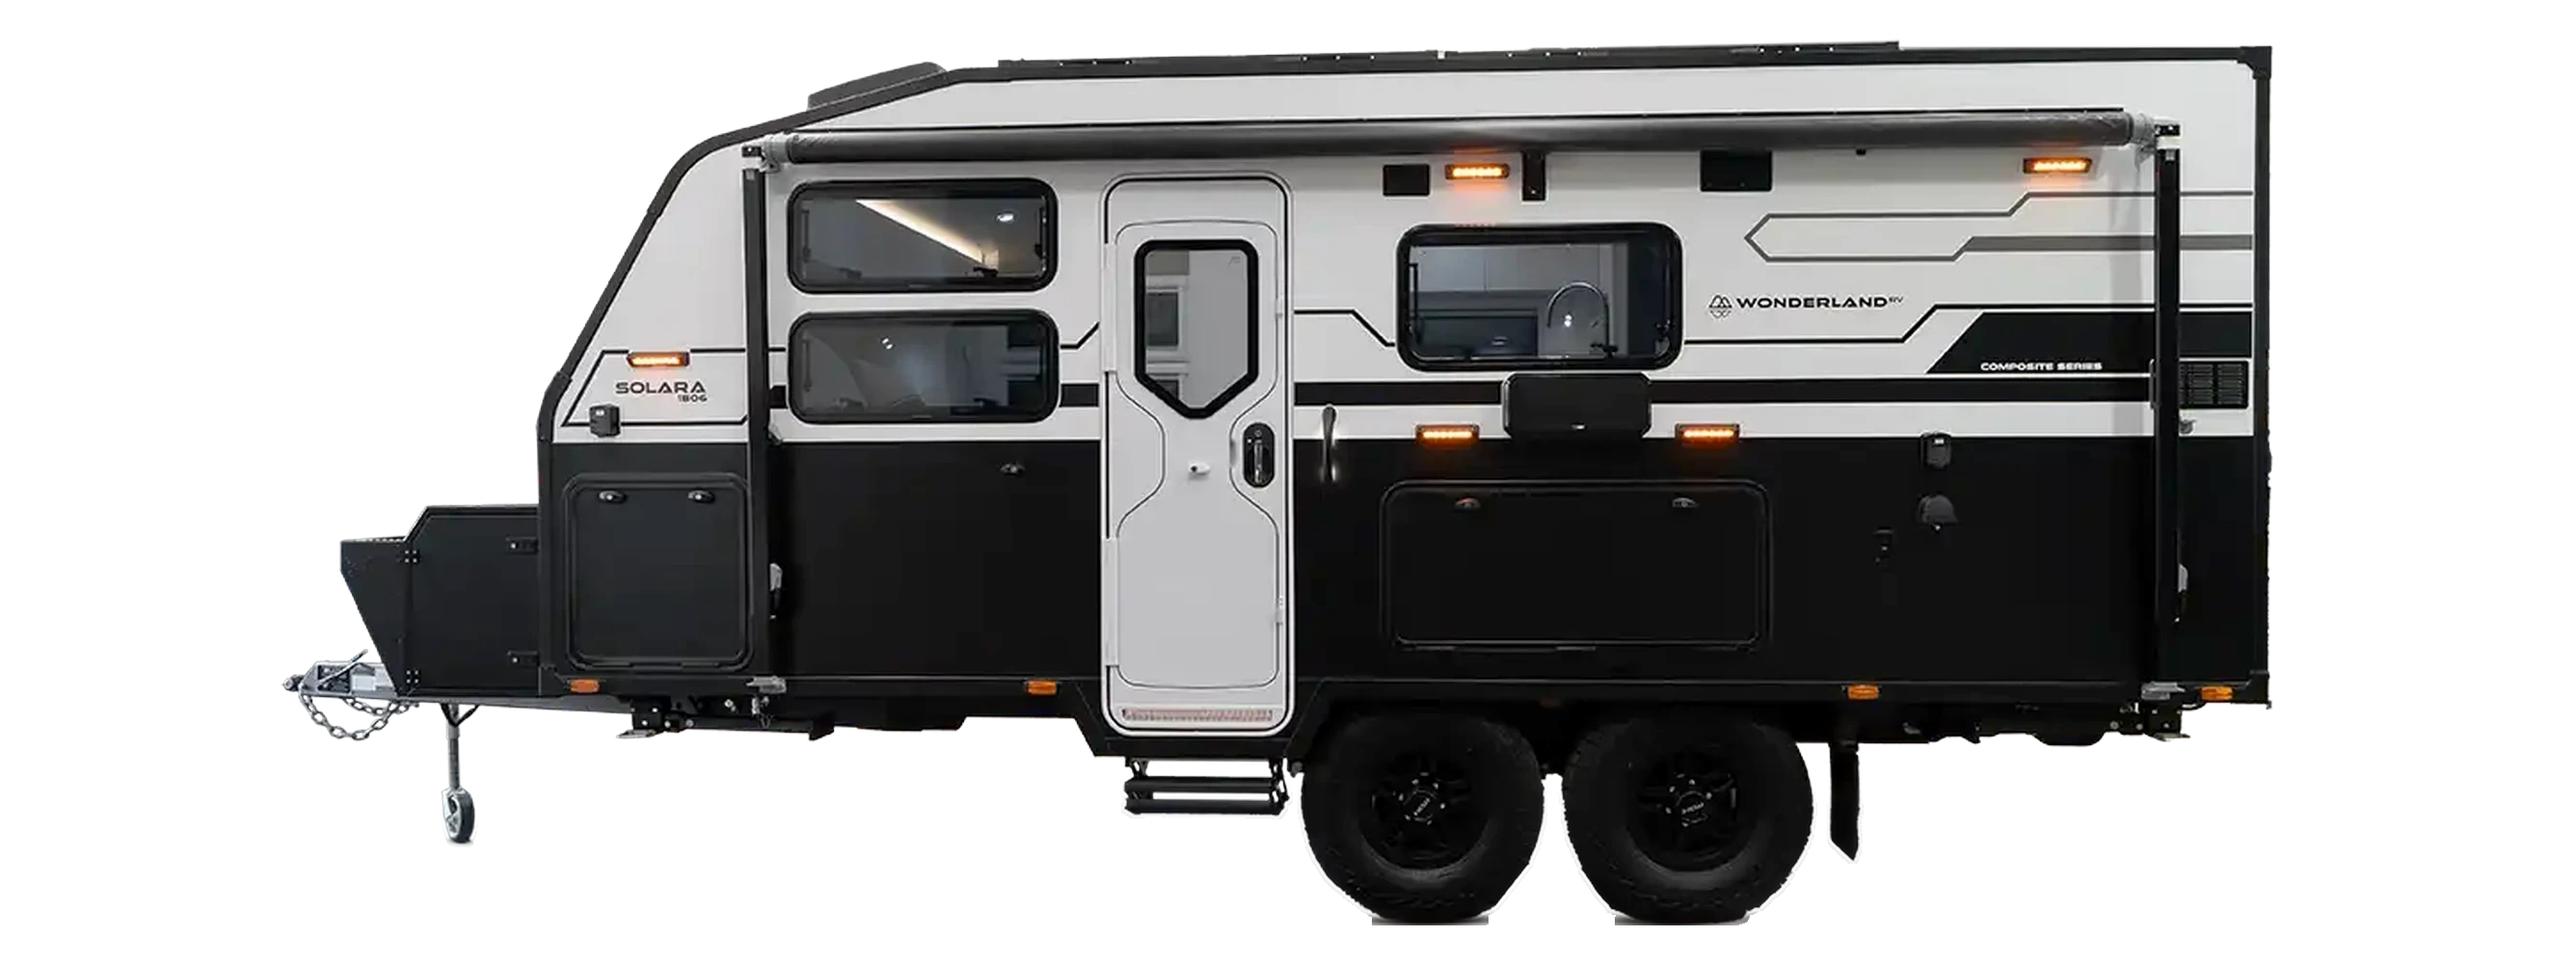
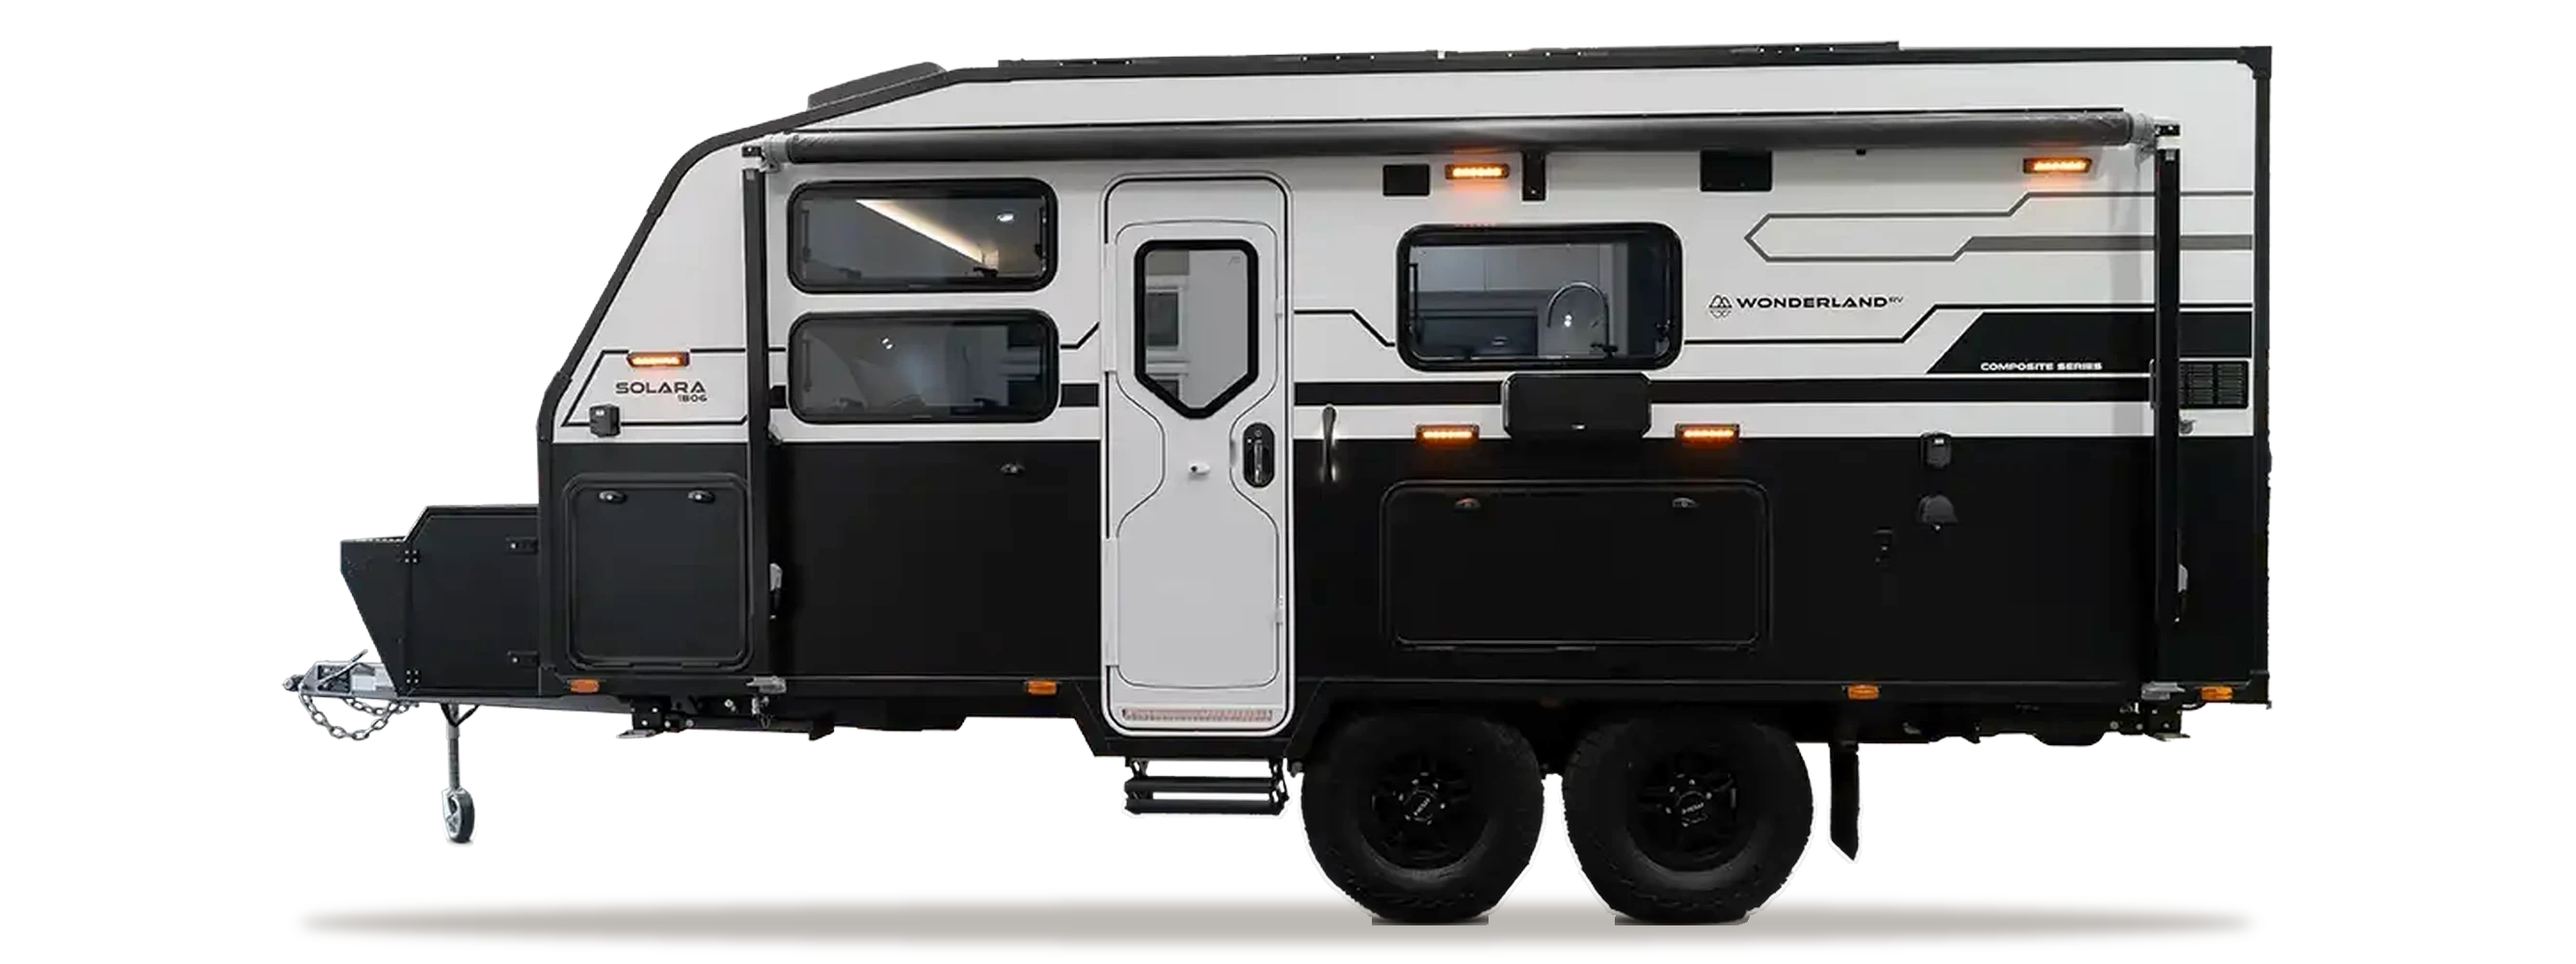
Add one identical contact shadow under all four vans
Generated in the image pipeline rather than in Illustrator, and the
reason is consistency rather than convenience: every parameter is a
constant shared by all four, so the four shadows cannot drift. One span
ratio (0.98 of each van's own ink width), one height (40px on the 1000px
canvas), one blur (sigma 7), one peak alpha (0.34), one vertical offset
(2px above the tyre line). The only per-van input is the van's own
footprint, which is as it should be -- a longer van casts a longer
shadow.

Illustrator is installed, but driving it needs GUI automation behind a
permission dialog, and a shadow drawn by hand in four documents is
exactly the thing that produced the inconsistency being fixed here. The
originals each carried a different baked haze; replacing that with four
hand-placed effects would repeat the fault.

WARM, not black: rgba of (60, 48, 36), the same warm dark the footer and
the section shadows use, so it sits in the page's neutral family rather
than reading cold against it.

Fits the canvas. The ellipse centre is at y 957 and the blur reaches y
990 against a 1000px canvas, so nothing clips and the 40px bottom margin
the layout depends on is untouched. Canvas geometry is unchanged at
2672x1000, so --plate, --nb and the stage height all still hold.

Image cache-buster to v=3 in range-viewer.js.

Changed region(s): [[0.1243, 0.93, 0.8698, 0.992]]

diff --git a/home.html b/home.html
@@ -6,12 +6,12 @@
 <title>Wonderland RV — Luxury Off-Road Caravans</title>
 <meta name="description" content="Wonderland RV's bespoke off-road caravans combine the comforts of a boutique hotel with the freedom to explore Australia's rugged beauty.">
 <link rel="icon" href="assets/img/wonderland-rv-logo.png">
-<link rel="stylesheet" href="assets/css/styles.css?v=280">
-<link rel="stylesheet" href="assets/css/type-compact.css?v=280">
-<link rel="stylesheet" href="assets/css/ambassadors.css?v=280">
-<link rel="stylesheet" href="assets/css/homepage.css?v=280">
-<link rel="stylesheet" href="assets/css/range-viewer.css?v=280">
-<link rel="stylesheet" href="assets/css/home-order.css?v=280">
+<link rel="stylesheet" href="assets/css/styles.css?v=281">
+<link rel="stylesheet" href="assets/css/type-compact.css?v=281">
+<link rel="stylesheet" href="assets/css/ambassadors.css?v=281">
+<link rel="stylesheet" href="assets/css/homepage.css?v=281">
+<link rel="stylesheet" href="assets/css/range-viewer.css?v=281">
+<link rel="stylesheet" href="assets/css/home-order.css?v=281">
 </head>
 <body class="home">
 
@@ -479,7 +479,7 @@
   <div class="amb-more-strip" tabindex="0" aria-label="The Wonderlanders">
     <div class="wl-card">
       <div class="wl-card-media ph" data-ph="AMBASSADOR PHOTO — The Feel Good Family">
-        <img src="assets/img/ambassadors/feel-good-family.jpg?v=280" alt="Katie, Paul and Jasper of The Feel Good Family with their Wonderland RV Solara" onload="this.parentElement.classList.remove('ph')" onerror="this.remove()">
+        <img src="assets/img/ambassadors/feel-good-family.jpg?v=281" alt="Katie, Paul and Jasper of The Feel Good Family with their Wonderland RV Solara" onload="this.parentElement.classList.remove('ph')" onerror="this.remove()">
       </div>
       <div class="wl-card-name">
         <div class="wl-card-head">
@@ -538,7 +538,7 @@
     </div>
     <div class="wl-card">
       <div class="wl-card-media ph" data-ph="AMBASSADOR PHOTO — The Kiwi Van Life">
-        <img src="assets/img/ambassadors/kiwi-van-life.jpg?v=280" alt="Rorden, Cass, Jed and Lexi of The Kiwi Van Life" onload="this.parentElement.classList.remove('ph')" onerror="this.remove()">
+        <img src="assets/img/ambassadors/kiwi-van-life.jpg?v=281" alt="Rorden, Cass, Jed and Lexi of The Kiwi Van Life" onload="this.parentElement.classList.remove('ph')" onerror="this.remove()">
       </div>
       <div class="wl-card-name">
         <div class="wl-card-head">
@@ -996,14 +996,14 @@
   </div>
 </footer>
 
-<script src="assets/js/video-embed.js?v=280"></script>
-<script src="assets/js/home.js?v=280"></script>
-<script src="assets/js/reviews.js?v=280"></script>
-<script src="assets/js/footer.js?v=280"></script>
-<script src="assets/js/budget.js?v=280"></script>
-<script src="assets/js/faq.js?v=280"></script>
-<script src="assets/js/range-viewer.js?v=280"></script>
-<script src="assets/js/wl-strip.js?v=280"></script>
-<script src="assets/js/nav.js?v=280"></script>
+<script src="assets/js/video-embed.js?v=281"></script>
+<script src="assets/js/home.js?v=281"></script>
+<script src="assets/js/reviews.js?v=281"></script>
+<script src="assets/js/footer.js?v=281"></script>
+<script src="assets/js/budget.js?v=281"></script>
+<script src="assets/js/faq.js?v=281"></script>
+<script src="assets/js/range-viewer.js?v=281"></script>
+<script src="assets/js/wl-strip.js?v=281"></script>
+<script src="assets/js/nav.js?v=281"></script>
 </body>
 </html>

diff --git a/feel-good-family.html b/feel-good-family.html
@@ -6,7 +6,7 @@
 <title>The Feel Good Family&rsquo;s composite caravan | Wonderland RV</title>
 <meta name="description" content="The Feel Good Family, Katie, Paul and Jasper, have travelled Australia full time since 2019 and now tow a Wonderland RV Solara, a composite caravan with bunks.">
 <link rel="icon" href="assets/img/wonderland-rv-logo.png">
-<link rel="stylesheet" href="assets/css/styles.css?v=280">
+<link rel="stylesheet" href="assets/css/styles.css?v=281">
 <link rel="stylesheet" href="assets/css/type-compact.css?v=207">
 <link rel="stylesheet" href="assets/css/ambassadors.css?v=207">
 <link rel="stylesheet" href="assets/css/ambassador-page.css?v=268">

diff --git a/kiwi-van-life.html b/kiwi-van-life.html
@@ -6,7 +6,7 @@
 <title>The Kiwi Van Life: family off-road caravan | Wonderland RV</title>
 <meta name="description" content="The Kiwi Van Life, Rorden, Cass, Jed and Lexi, sold their house in seven days and now live in a Wonderland RV Hornet, a family off-road caravan with an ensuite.">
 <link rel="icon" href="assets/img/wonderland-rv-logo.png">
-<link rel="stylesheet" href="assets/css/styles.css?v=280">
+<link rel="stylesheet" href="assets/css/styles.css?v=281">
 <link rel="stylesheet" href="assets/css/type-compact.css?v=207">
 <link rel="stylesheet" href="assets/css/ambassadors.css?v=207">
 <link rel="stylesheet" href="assets/css/ambassador-page.css?v=268">

diff --git a/wheatland-wanderers.html b/wheatland-wanderers.html
@@ -6,7 +6,7 @@
 <title>Wheatland Wanderers: XTR off-grid caravan | Wonderland RV</title>
 <meta name="description" content="The Wheatland Wanderers, Cameron, Sharyn, Jye and Cruz, went from tents and swags to a custom-designed Wonderland RV XTR. Learn what makes an off-grid caravan.">
 <link rel="icon" href="assets/img/wonderland-rv-logo.png">
-<link rel="stylesheet" href="assets/css/styles.css?v=280">
+<link rel="stylesheet" href="assets/css/styles.css?v=281">
 <link rel="stylesheet" href="assets/css/type-compact.css?v=207">
 <link rel="stylesheet" href="assets/css/ambassadors.css?v=207">
 <link rel="stylesheet" href="assets/css/ambassador-page.css?v=268">

diff --git a/livin-in-sanity.html b/livin-in-sanity.html
@@ -6,7 +6,7 @@
 <title>Livin In Sanity: travel Australia with kids | Wonderland RV</title>
 <meta name="description" content="Livin In Sanity have been travelling Australia with kids full time since February 2023. Meet Rick, Kerstin and the family, and see their Wonderland RV XTR.">
 <link rel="icon" href="assets/img/wonderland-rv-logo.png">
-<link rel="stylesheet" href="assets/css/styles.css?v=280">
+<link rel="stylesheet" href="assets/css/styles.css?v=281">
 <link rel="stylesheet" href="assets/css/type-compact.css?v=207">
 <link rel="stylesheet" href="assets/css/ambassadors.css?v=207">
 <link rel="stylesheet" href="assets/css/ambassador-page.css?v=268">

diff --git a/ambassadors.html b/ambassadors.html
@@ -6,7 +6,7 @@
 <title>Wonderlanders: living in a caravan full time | Wonderland RV</title>
 <meta name="description" content="Meet the Wonderlanders, families living in a caravan full time or taking a big lap of Australia, in off-road caravans that Wonderland RV builds to order.">
 <link rel="icon" href="assets/img/wonderland-rv-logo.png">
-<link rel="stylesheet" href="assets/css/styles.css?v=280">
+<link rel="stylesheet" href="assets/css/styles.css?v=281">
 <link rel="stylesheet" href="assets/css/type-compact.css?v=207">
 <link rel="stylesheet" href="assets/css/ambassador-page.css?v=268">
 <link rel="stylesheet" href="assets/css/ambassadors.css?v=207">

diff --git a/sandy-van-travels.html b/sandy-van-travels.html
@@ -6,7 +6,7 @@
 <title>Sandy Van Travels: caravan storage ideas | Wonderland RV</title>
 <meta name="description" content="Caravan storage ideas from Sandy Van Travels, a family of five travelling Australia full time in a Wonderland RV with three bunks and a large ensuite.">
 <link rel="icon" href="assets/img/wonderland-rv-logo.png">
-<link rel="stylesheet" href="assets/css/styles.css?v=280">
+<link rel="stylesheet" href="assets/css/styles.css?v=281">
 <link rel="stylesheet" href="assets/css/type-compact.css?v=207">
 <link rel="stylesheet" href="assets/css/ambassadors.css?v=207">
 <link rel="stylesheet" href="assets/css/ambassador-page.css?v=268">

diff --git a/8-feet-travels.html b/8-feet-travels.html
@@ -6,7 +6,7 @@
 <title>8 Feet Travels: meet Adam and Jessy | Wonderland RV</title>
 <meta name="description" content="Meet Adam and Jessy of 8 Feet Travels, part of the Wonderlanders community at Wonderland RV, the family-owned maker of off-road caravans built to order.">
 <link rel="icon" href="assets/img/wonderland-rv-logo.png">
-<link rel="stylesheet" href="assets/css/styles.css?v=280">
+<link rel="stylesheet" href="assets/css/styles.css?v=281">
 <link rel="stylesheet" href="assets/css/type-compact.css?v=207">
 <link rel="stylesheet" href="assets/css/ambassadors.css?v=207">
 <link rel="stylesheet" href="assets/css/ambassador-page.css?v=268">

diff --git a/assets/js/range-viewer.js b/assets/js/range-viewer.js
@@ -86,7 +86,7 @@
          twice now, first to drop the baked-in shadows and then to crop the
          empty canvas those shadows had been reserving, and nothing else
          would tell a browser holding the old ones to fetch them again */
-      var src = "assets/img/home/range/" + m.id + "-side.webp?v=2";
+      var src = "assets/img/home/range/" + m.id + "-side.webp?v=3";
       return '<div class="rvx-van" data-k="' + k + '">' +
         '<img src="' + src + '" alt="' + m.name + '" onerror="this.remove();">' +
       '</div>';

diff --git a/compact.html b/compact.html
@@ -6,7 +6,7 @@
 <title>Contact Us — Wonderland RV (compact type)</title>
 <meta name="description" content="Contact Wonderland RV. Our experts will guide you through your caravan customisation — book a factory tour, request a quote or arrange a virtual consult.">
 <link rel="icon" href="assets/img/wonderland-rv-logo.png">
-<link rel="stylesheet" href="assets/css/styles.css?v=280">
+<link rel="stylesheet" href="assets/css/styles.css?v=281">
 <link rel="stylesheet" href="assets/css/type-compact.css?v=229">
 </head>
 <body>

diff --git a/index.html b/index.html
@@ -6,7 +6,7 @@
 <title>Contact Us — Wonderland RV</title>
 <meta name="description" content="Contact Wonderland RV. Our experts will guide you through your caravan customisation — book a factory tour, request a quote or arrange a virtual consult.">
 <link rel="icon" href="assets/img/wonderland-rv-logo.png">
-<link rel="stylesheet" href="assets/css/styles.css?v=280">
+<link rel="stylesheet" href="assets/css/styles.css?v=281">
 </head>
 <body>
 
